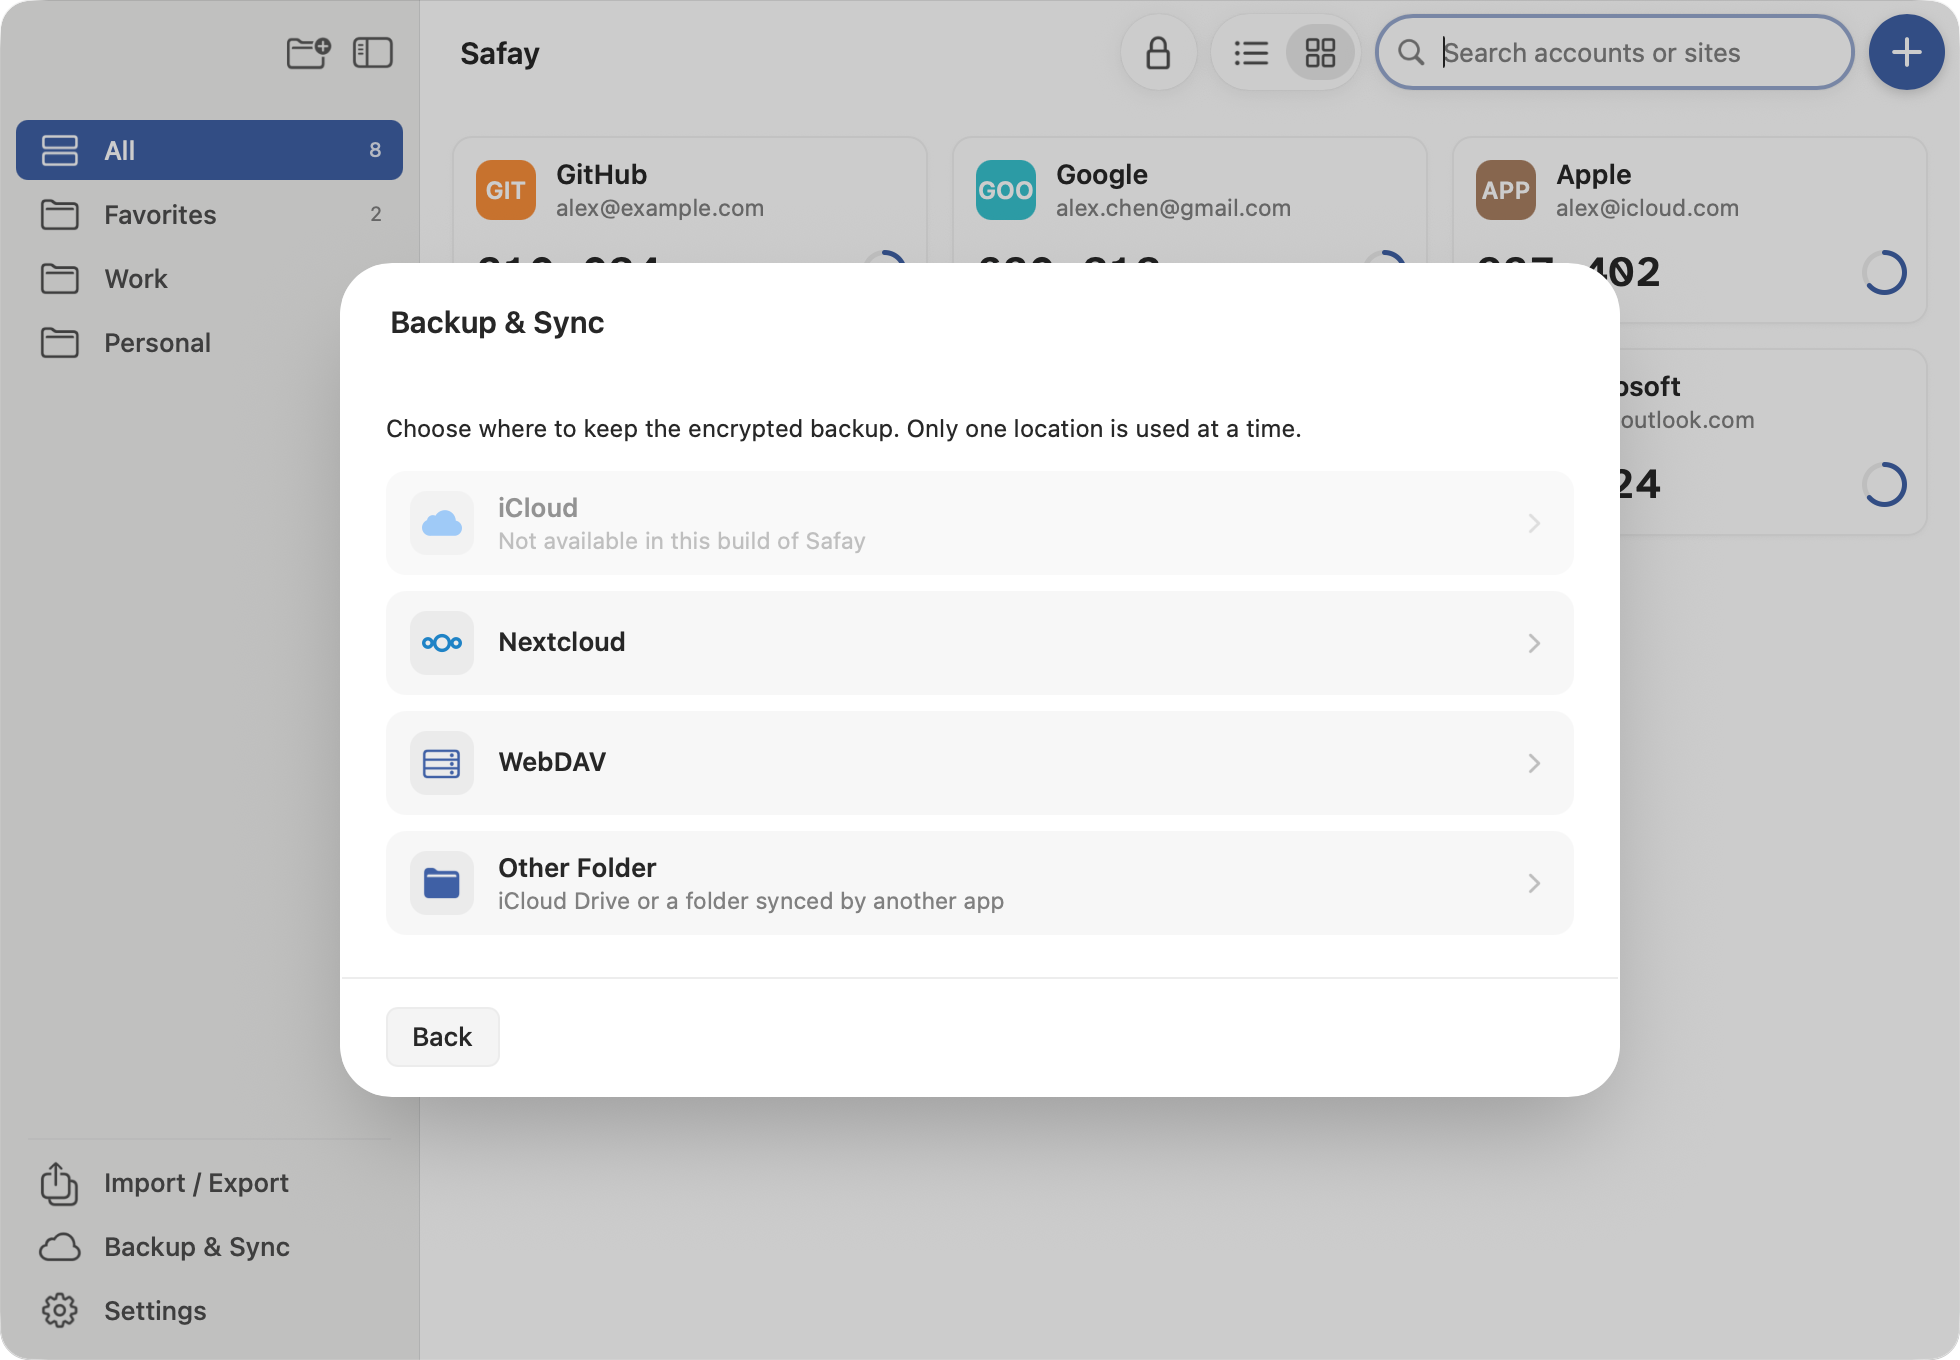
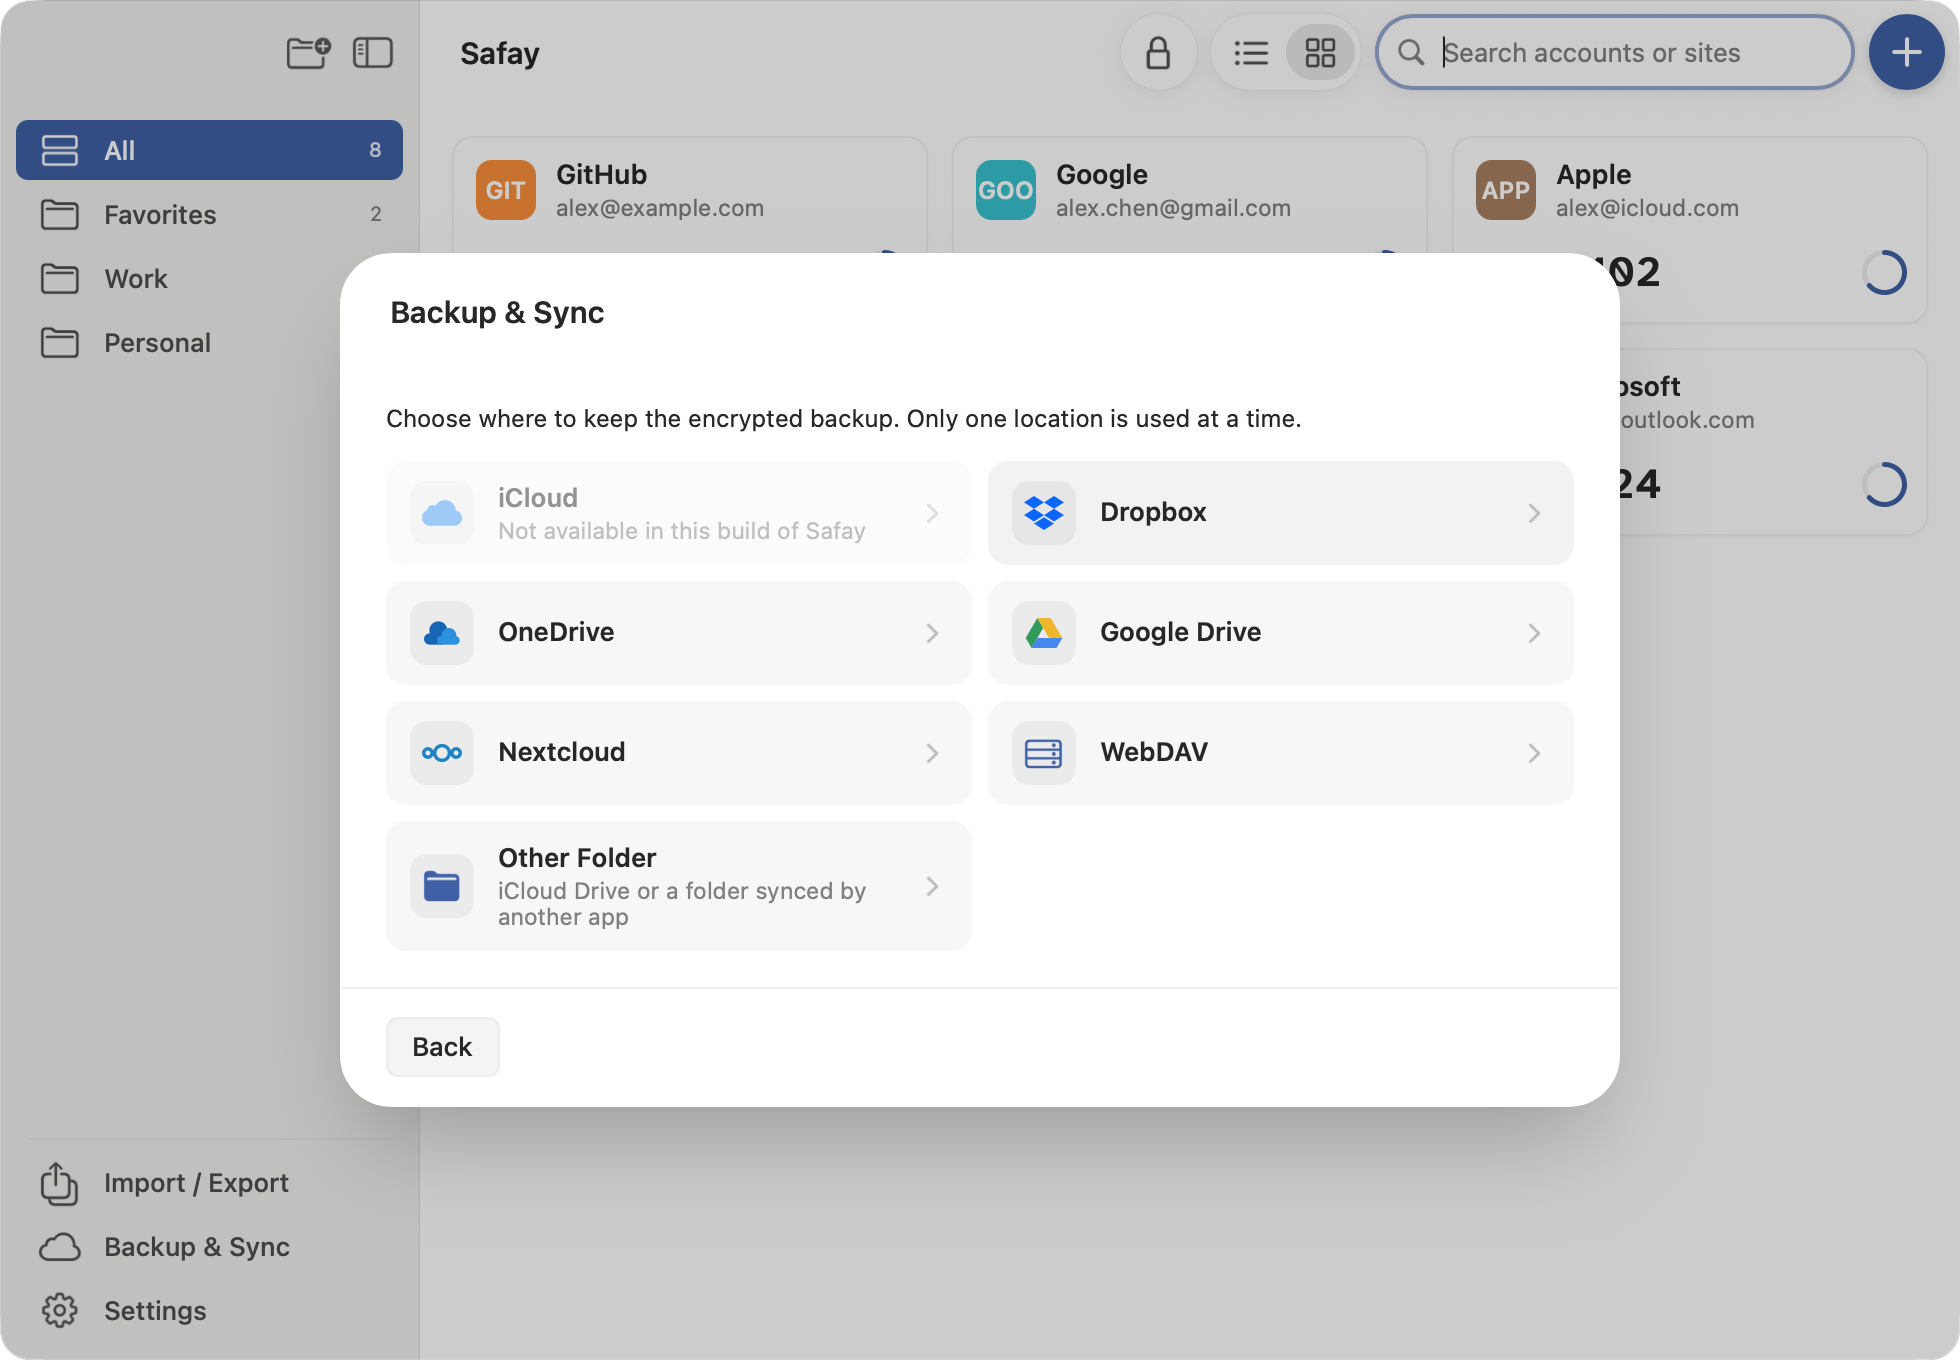
feat: list backup locations in two columns, show the backup folder
List the locations in Backup & Sync two per line, with the layout the
restore page already uses; both pages now share location_grid.

On the Dropbox, OneDrive and Google Drive sign-in pages, say where the
backup is kept: the card shows the folder ("Apps › Safay", or the folder
named in cloud-keys.toml under My Drive) instead of describing what
Safay cannot see. The docs describe the app folder the same way, and
build.rs drops the unused full-access settings.

Add demo scenes for the OneDrive and Google Drive sign-in pages, and
refresh the README's picture of the location list.

diff --git a/src/pages/backup.rs b/src/pages/backup.rs
@@ -666,7 +666,8 @@ pub fn oauth_client(provider: Provider) -> Option<safay_app::cloudset::OAuthClie
 }
 fn choose(s: Store) -> impl IntoElement {
     let row = move |kind: LocationIcon, title: &'static str, subtitle: Option<&'static str>, enabled: bool, press: Box<dyn Fn()>| {
-        location_row(s, kind, title, subtitle, move || s.syncing.get() || !enabled, press).into_element()
+        let row = location_row(s, kind, title, subtitle, move || s.syncing.get() || !enabled, press);
+        view().flex_1().min_w(px(0.0)).child(row.flex_1()).into_element()
     };
     // iCloud needs a build signed with the iCloud entitlement; otherwise the row stays disabled with the reason.
     let icloud = safay_app::icloud::available();
@@ -701,7 +702,19 @@ fn choose(s: Store) -> impl IntoElement {
     view()
         .gap(px(14.0))
         .child(text(move || s.label("Choose where to keep the encrypted backup. Only one location is used at a time.")).text_size(px(12.0)))
-        .child(view().gap(px(8.0)).children(rows))
+        .child(location_grid(rows))
+}
+/// Location cells two per line, as the restore page lists them; a last cell on its own keeps the column width. A cell
+/// is an unpadded flex item around its row, so a line with an empty slot keeps the same column widths (a padded item's
+/// flex basis is at least its padding).
+pub fn location_grid(cells: Vec<AnyElement>) -> impl IntoElement {
+    let mut lines = Vec::new();
+    let mut cells = cells.into_iter();
+    while let Some(first) = cells.next() {
+        let second = cells.next().unwrap_or_else(|| view().flex_1().into_element());
+        lines.push(view().flex_row().gap(px(8.0)).child(first).child(second).into_element());
+    }
+    view().gap(px(8.0)).children(lines)
 }
 
 /// The pairing header: Safay's icon, a locked link, the service's mark, then the headline and a note.
@@ -768,9 +781,13 @@ fn pairing_header(s: Store, provider: Provider) -> impl IntoElement {
                 ),
         )
 }
-/// The OAuth form: pairing header, the Safay-folder promise, and the three steps (they become progress).
+/// The OAuth form: pairing header, where the backup is kept, and the three steps (they become progress).
 fn oauth_setup(s: Store, provider: Provider) -> impl IntoElement {
-    let folder = move || s.label(if provider == Provider::GoogleDrive { "My Drive › Safay" } else { "Apps › Safay" });
+    // The app folder as the service's own app shows it: Google Drive's is the folder named in `cloud-keys.toml`.
+    let folder = move || match provider {
+        Provider::GoogleDrive => s.fmt("My Drive › {}", &[option_env!("SAFAY_GOOGLE_FOLDER_NAME").unwrap_or_default()]),
+        _ => s.label("Apps › Safay"),
+    };
     let steps: Vec<Box<dyn Fn() -> SharedString>> = vec![
         Box::new(move || s.fmt("Sign in to {} and allow Safay", &[provider.name()])),
         Box::new(move || s.fmt("Connect to your {} account", &[provider.name()])),
@@ -802,19 +819,20 @@ fn oauth_setup(s: Store, provider: Provider) -> impl IntoElement {
                 .bg(move || tok("code-accent").opacity(0.07))
                 .border_1()
                 .border_color(move || tok("code-accent").opacity(0.18))
+                .child(view().w(px(22.0)).items_center().child(crate::icons::symbol(Icon::FolderFill, 17.0, move || tok("code-accent"))))
                 .child(
-                    view().w(px(22.0)).items_center().child(crate::icons::symbol(Icon::LockShieldFill, 17.0, move || tok("code-accent"))),
-                )
-                .child(
-                    view()
-                        .flex_1()
-                        .gap(px(3.0))
-                        .child(text(move || s.label("Safay Folder Only")).text_size(px(13.0)).font_weight(FontWeight::SEMIBOLD))
-                        .child(
-                            text(move || s.fmt("Safay can only see its own folder, {}, in your {}.", &[&folder(), provider.name()]))
-                                .text_size(px(12.0))
-                                .text_color(move || theme().muted_foreground),
-                        ),
+                    view().flex_1().gap(px(3.0)).child(text(folder).text_size(px(13.0)).font_weight(FontWeight::SEMIBOLD)).child(
+                        text(move || {
+                            let key = if s.cloud_restore.get() {
+                                "Safay looks for your backup in this folder in your {}."
+                            } else {
+                                "Your backup is kept in this folder in your {}."
+                            };
+                            s.fmt(key, &[provider.name()])
+                        })
+                        .text_size(px(12.0))
+                        .text_color(move || theme().muted_foreground),
+                    ),
                 ),
         )
         .child(progress_steps(steps, phase))

diff --git a/crates/safay-app/src/cloud.rs b/crates/safay-app/src/cloud.rs
@@ -173,9 +173,9 @@ impl CloudBackend {
         run(services, Some(&self.credential), make(&client, &folder), client.connection().certificate_pin())
     }
 }
-/// The folder that holds the backup. A sign-in limited to the app's own folder (Dropbox "Apps › Safay", OneDrive's app
-/// folder, Google Drive's "My Drive › Safay") already points at Safay's folder, so the backup lives at its root; a
-/// sign-in that reaches the whole account (WebDAV, Nextcloud) keeps it in a `Safay` folder at the root.
+/// The folder that holds the backup. On Dropbox, OneDrive and Google Drive the sign-in is to Safay's app folder
+/// ("Apps › Safay", or the folder named for it in My Drive), so the backup lives at its root; a WebDAV or Nextcloud
+/// account keeps it in a `Safay` folder at the root.
 fn backup_folder(connection: &Connection) -> RemotePath {
     match connection.access_scope() {
         Some(cloudset::AccessScope::AppFolder) => RemotePath::root(),
@@ -282,7 +282,7 @@ pub fn reconnect(connection: &[u8]) -> Result<crate::sync::Location, SyncError> 
 /// The cloud sign-ins made during first-run restore, one per service, so choosing the service again needs no new
 /// sign-in: after "no backup found", an error, or going back from the password step. Memory only (never the keychain or
 /// disk) and gone when the app quits. For WebDAV and Nextcloud the form submitted (`F`, with the WebDAV password) is kept
-/// too, to prefill it. Safay signs in to the app folder only, so one sign-in per service is enough.
+/// too, to prefill it. Every sign-in to a service is to the same app folder, so one per service is enough.
 ///
 /// A connection is held here only while it is stored nowhere else: the restore location's own sign-in stays in the
 /// credential store until that location is dropped ([`take`]). The caller revokes what [`Self::signed_in`] replaces and

diff --git a/src/demo.rs b/src/demo.rs
@@ -155,7 +155,8 @@ pub fn DemoSettingsApp() -> impl IntoElement {
 }
 
 /// Opens one page for a capture: `SAFAY_DEMO_SCENE` = add-scan | add-key | add-text | export | import |
-/// backup | detail | change-password | auth | list | category | category-empty | settings[-security|-shortcuts|-advanced|-about] |
+/// backup | backup-choose | backup-dropbox | backup-onedrive | backup-google-drive | backup-webdav | backup-nextcloud |
+/// detail | change-password | auth | list | category | category-empty | settings[-security|-shortcuts|-advanced|-about] |
 /// alert. Debug demo builds only.
 pub fn scene(s: crate::store::Store) {
     use crate::store::{AddTab, Sheet};
@@ -181,9 +182,14 @@ pub fn scene(s: crate::store::Store) {
                 s.open_sheet(Sheet::Backup);
                 s.backup_page.set(crate::store::BackupPage::Choose);
             }
-            "backup-dropbox" => {
+            "backup-dropbox" | "backup-onedrive" | "backup-google-drive" => {
+                use safay_app::cloud::Provider;
                 s.open_sheet(Sheet::Backup);
-                s.open_cloud_setup(safay_app::cloud::Provider::Dropbox);
+                s.open_cloud_setup(match scene.as_str() {
+                    "backup-onedrive" => Provider::Onedrive,
+                    "backup-google-drive" => Provider::GoogleDrive,
+                    _ => Provider::Dropbox,
+                });
             }
             "backup-webdav" | "backup-nextcloud" => {
                 s.open_sheet(Sheet::Backup);

diff --git a/src/store.rs b/src/store.rs
@@ -1901,7 +1901,7 @@ impl Store {
         self.open_cloud_setup(provider);
         self.sheet.set(Some(Sheet::Backup));
         // Chosen again: WebDAV and Nextcloud show the form as submitted (Nextcloud's Connect reuses the sign-in); the
-        // other services, signed in to their app folder only, look for the backup again straight away.
+        // other services, already signed in to Safay's app folder, look for the backup again straight away.
         if let Some(form) = self.restore_sign_ins.with(|k| k.form(provider)) {
             self.cloud_form.set(form);
         }
@@ -2213,7 +2213,7 @@ impl Store {
         }
     }
     /// Dropbox / OneDrive / Google Drive: sign in through `ASWebAuthenticationSession`, exchange the code (the core checks
-    /// the callback and `state`), check and store the connection, then link it. Safay's own app folder only.
+    /// the callback and `state`), check and store the connection, then link it. The backup lives in Safay's app folder.
     pub fn connect_oauth(self, provider: safay_app::cloud::Provider) {
         if self.fixture || self.cloud_form.with(|f| f.working) {
             return;

diff --git a/src/pages/unlock.rs b/src/pages/unlock.rs
@@ -822,13 +822,6 @@ fn restore_locations(s: Store) -> impl IntoElement {
         )
         .into_element(),
     );
-    // Two per line; a last cell on its own keeps the column width.
-    let mut lines = Vec::new();
-    let mut cells = cells.into_iter();
-    while let Some(first) = cells.next() {
-        let second = cells.next().unwrap_or_else(|| view().flex_1().into_element());
-        lines.push(view().flex_row().gap(px(8.0)).child(first).child(second).into_element());
-    }
     view()
         .gap(px(14.0))
         .on_file_drag_enter(move |_: &()| over.set(true))
@@ -848,7 +841,7 @@ fn restore_locations(s: Store) -> impl IntoElement {
                 });
             }
         })
-        .child(view().gap(px(8.0)).children(lines))
+        .child(super::backup::location_grid(cells))
         .child(when(idle, move || {
             view()
                 .flex_row()

diff --git a/build.rs b/build.rs
@@ -29,11 +29,8 @@ fn cloud_keys() {
             let value = value.trim().trim_matches('"').trim();
             let name = match (section.as_str(), key.trim()) {
                 ("dropbox", "app_key") => "SAFAY_DROPBOX_APP_KEY",
-                ("dropbox", "full_app_key") => "SAFAY_DROPBOX_FULL_APP_KEY",
                 ("microsoft", "client_id") => "SAFAY_MICROSOFT_CLIENT_ID",
-                ("microsoft", "full_access") => "SAFAY_MICROSOFT_FULL",
                 ("google", "client_id") => "SAFAY_GOOGLE_CLIENT_ID",
-                ("google", "full_access") => "SAFAY_GOOGLE_FULL",
                 ("dropbox", "redirect_uri") => "SAFAY_DROPBOX_REDIRECT_URI",
                 ("microsoft", "redirect_uri") => "SAFAY_MICROSOFT_REDIRECT_URI",
                 ("google", "redirect_uri") => "SAFAY_GOOGLE_REDIRECT_URI",

diff --git a/SECURITY.md b/SECURITY.md
@@ -96,16 +96,16 @@ Remote storage receives only the encrypted vault and a metadata file with a devi
 
 ### Cloud accounts
 
-- Dropbox, OneDrive and Google Drive use OAuth 2.0 with PKCE as a public client, with access to the app's own folder
-  only: on macOS in the system's authentication session (`ASWebAuthenticationSession`), on Linux and Windows in the
-  default browser, whose callback comes back as a link of the provider's scheme that Safay claims. Any app can open such
-  a link, or claim the scheme too: only a sign-in in progress takes one, the code is useless without the PKCE verifier
-  that never leaves Safay, and `state` and the callback are verified by the core. Google Drive on Linux and Windows
-  uses Google's "Desktop app" client instead, whose callback comes back to a loopback address: Safay listens on a
-  free port of `127.0.0.1` only while a sign-in is in progress, reads nothing but the request line, answers with one
-  fixed page, and takes only the request the core accepts for that sign-in. The client secret Google issues to such
-  clients ships inside the app and protects nothing; PKCE does. Nextcloud uses Login Flow v2, with the login page,
-  polling and result required to share an origin.
+- Dropbox, OneDrive and Google Drive use OAuth 2.0 with PKCE as a public client and ask for access to Safay's app
+  folder, where the backup is kept: on macOS in the system's authentication session (`ASWebAuthenticationSession`), on
+  Linux and Windows in the default browser, whose callback comes back as a link of the provider's scheme that Safay
+  claims. Any app can open such a link, or claim the scheme too: only a sign-in in progress takes one, the code is
+  useless without the PKCE verifier that never leaves Safay, and `state` and the callback are verified by the core.
+  Google Drive on Linux and Windows uses Google's "Desktop app" client instead, whose callback comes back to a loopback
+  address: Safay listens on a free port of `127.0.0.1` only while a sign-in is in progress, reads nothing but the
+  request line, answers with one fixed page, and takes only the request the core accepts for that sign-in. The client
+  secret Google issues to such clients ships inside the app and protects nothing; PKCE does. Nextcloud uses Login Flow
+  v2, with the login page, polling and result required to share an origin.
 - Credentials (the serialized connection, including tokens or app passwords) are stored only in the system credential
   store (Keychain, Windows Credential Manager, the Secret Service on Linux); `sync.json` holds the entry's ID and a
   display name. Turning a backup off revokes the token where the provider supports it and deletes the entry.

diff --git a/docs/PLATFORMS.md b/docs/PLATFORMS.md
@@ -35,7 +35,8 @@ On Windows and Linux, Settings opens as a dialog over the main window; macOS use
   ([Development](DEVELOPMENT.md#signing-and-icloud)); ad-hoc packages show iCloud as unavailable.
 - Dropbox, OneDrive and Google Drive appear only when the build has OAuth client IDs (`cloud-keys.toml`), on every
   system.
-- Cloud locations use the provider's app folder (`Safay`); choosing an arbitrary remote folder is not implemented.
+- Dropbox, OneDrive and Google Drive keep the backup in Safay's app folder: "Apps › Safay", or the folder named for
+  it in My Drive.
 - Selecting a QR code on screen needs Screen Recording permission; the camera needs a packaged app.
 
 ## Linux details

diff --git a/docs/ARCHITECTURE.md b/docs/ARCHITECTURE.md
@@ -67,7 +67,7 @@ so a development build never touches a release build's data:
 Exports are encrypted files of the same format with their own salt, marked `"app": "safay"`. A backup location holds
 `vault.safayvault` (the vault as is) and `vault.metadata.json` (device name and time): in a `Safay` folder inside the
 chosen folder or the WebDAV and Nextcloud account, and at the root of Safay's app folder on Dropbox, OneDrive and Google
-Drive, which is already named Safay. iCloud keeps them in one CloudKit record.
+Drive ("Apps › Safay", or the folder named for it in My Drive). iCloud keeps them in one CloudKit record.
 
 ## Backup and sync
 

diff --git a/CHANGELOG.md b/CHANGELOG.md
@@ -9,6 +9,8 @@ and versions follow [Semantic Versioning](https://semver.org/). A release's sect
 
 - **Backup & Sync**: when a server can't guarantee an upload won't overwrite another device's changes, Safay asks
   first with "Replace Backup" instead of uploading on its own.
+- **Choosing a backup location**: locations are listed two per line, and signing in to a cloud service shows the
+  folder your backup is kept in.
 
 ### Fixed
 
